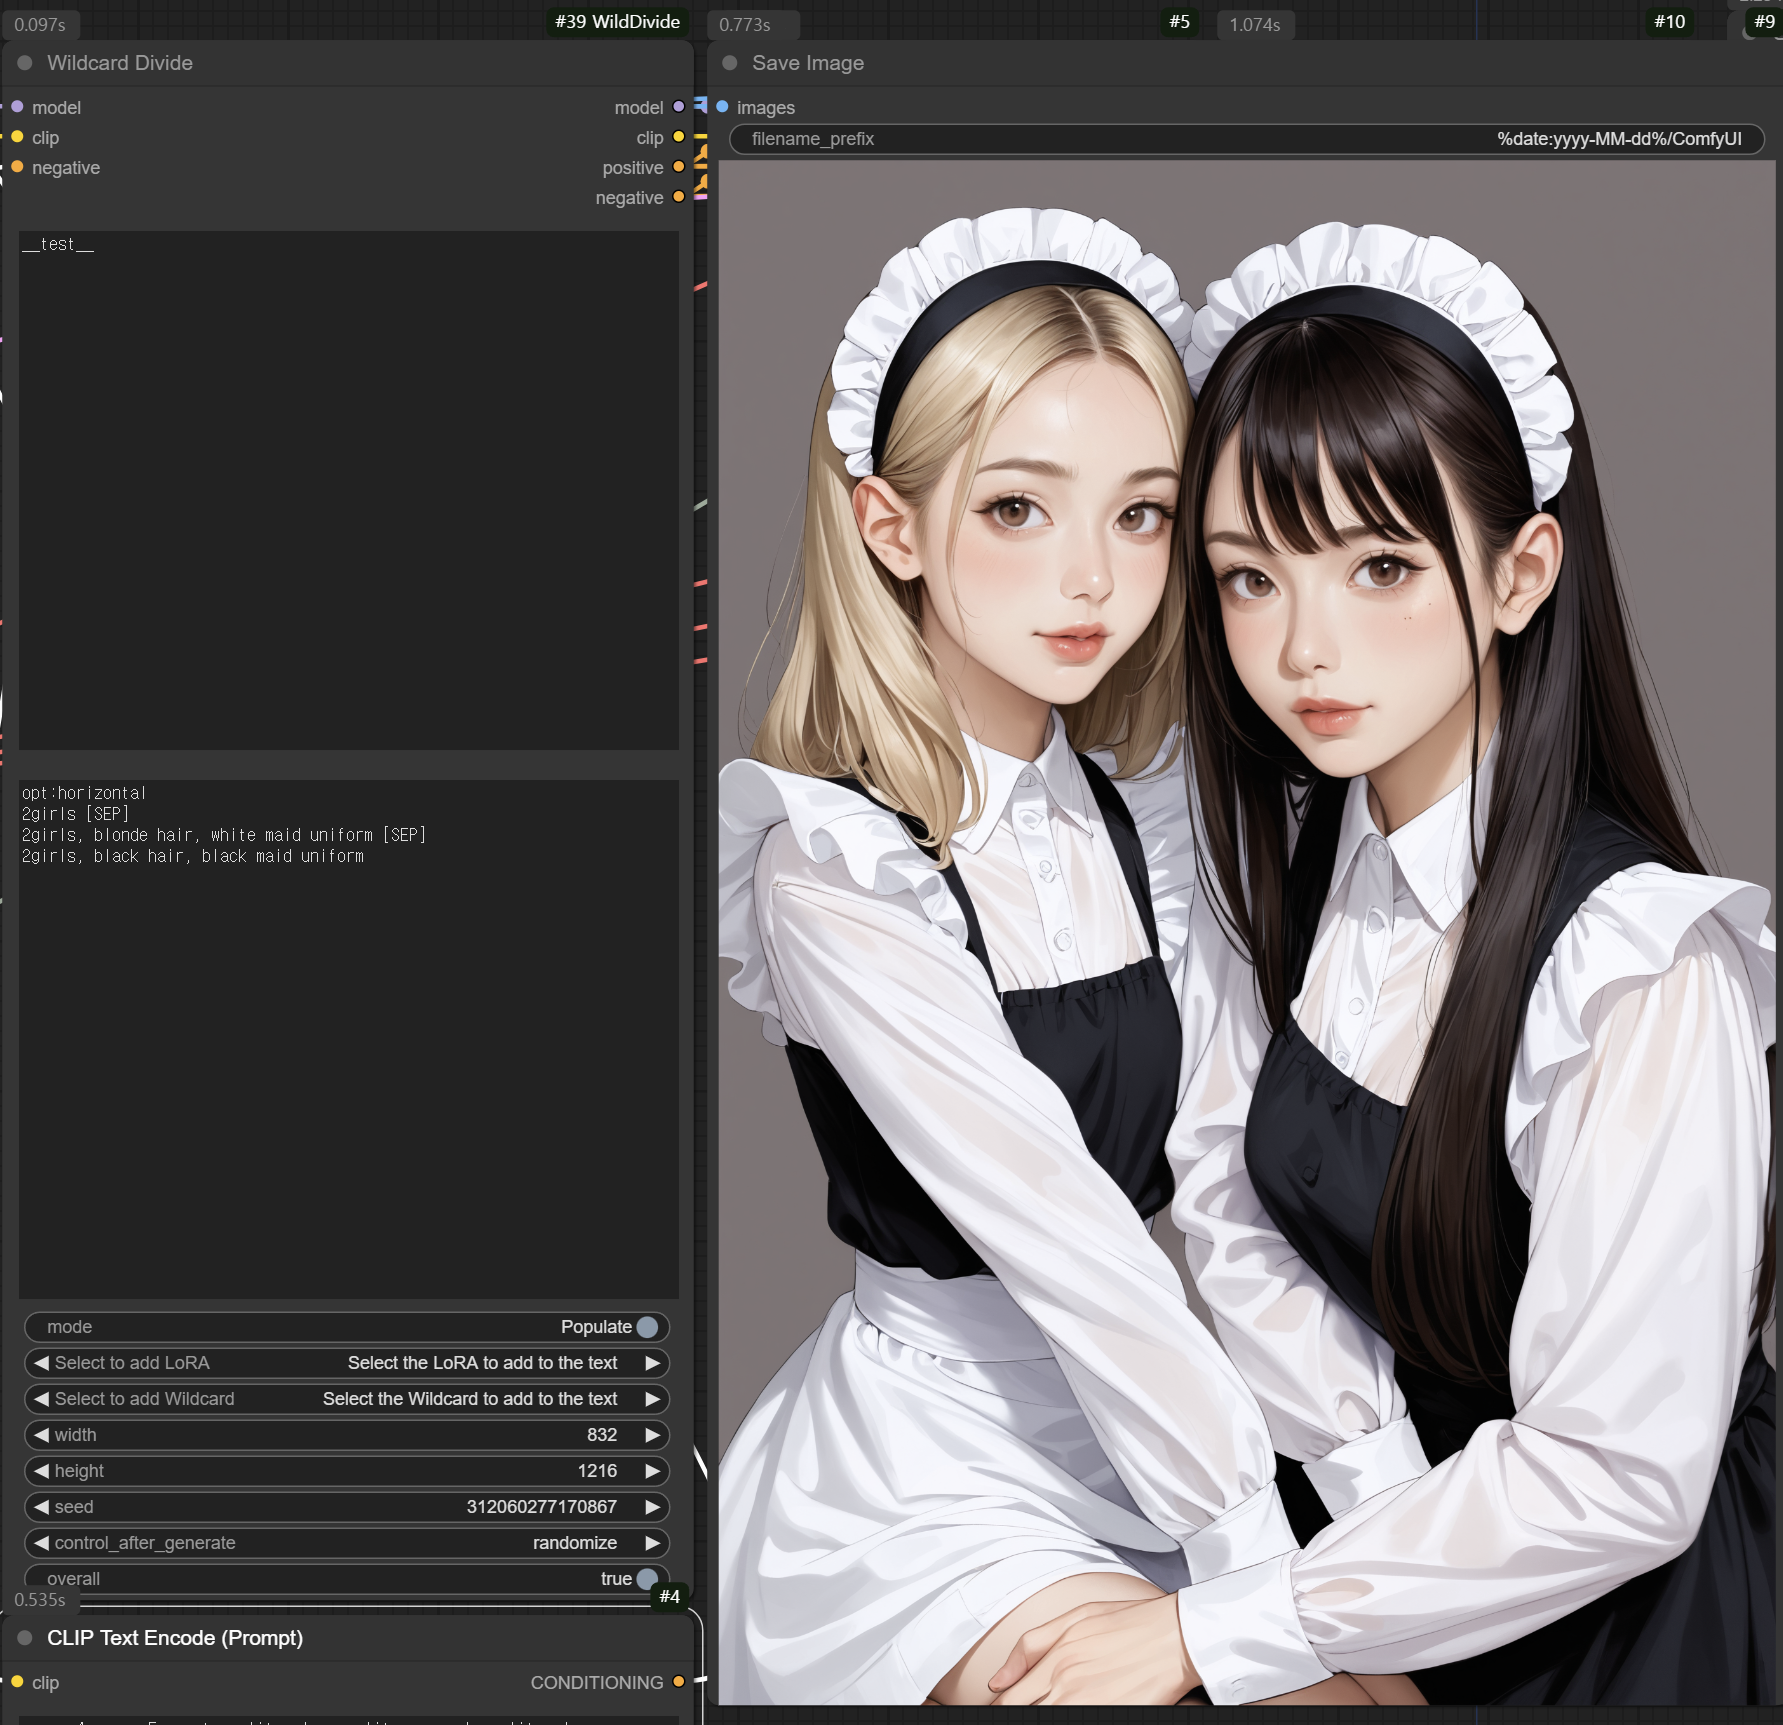
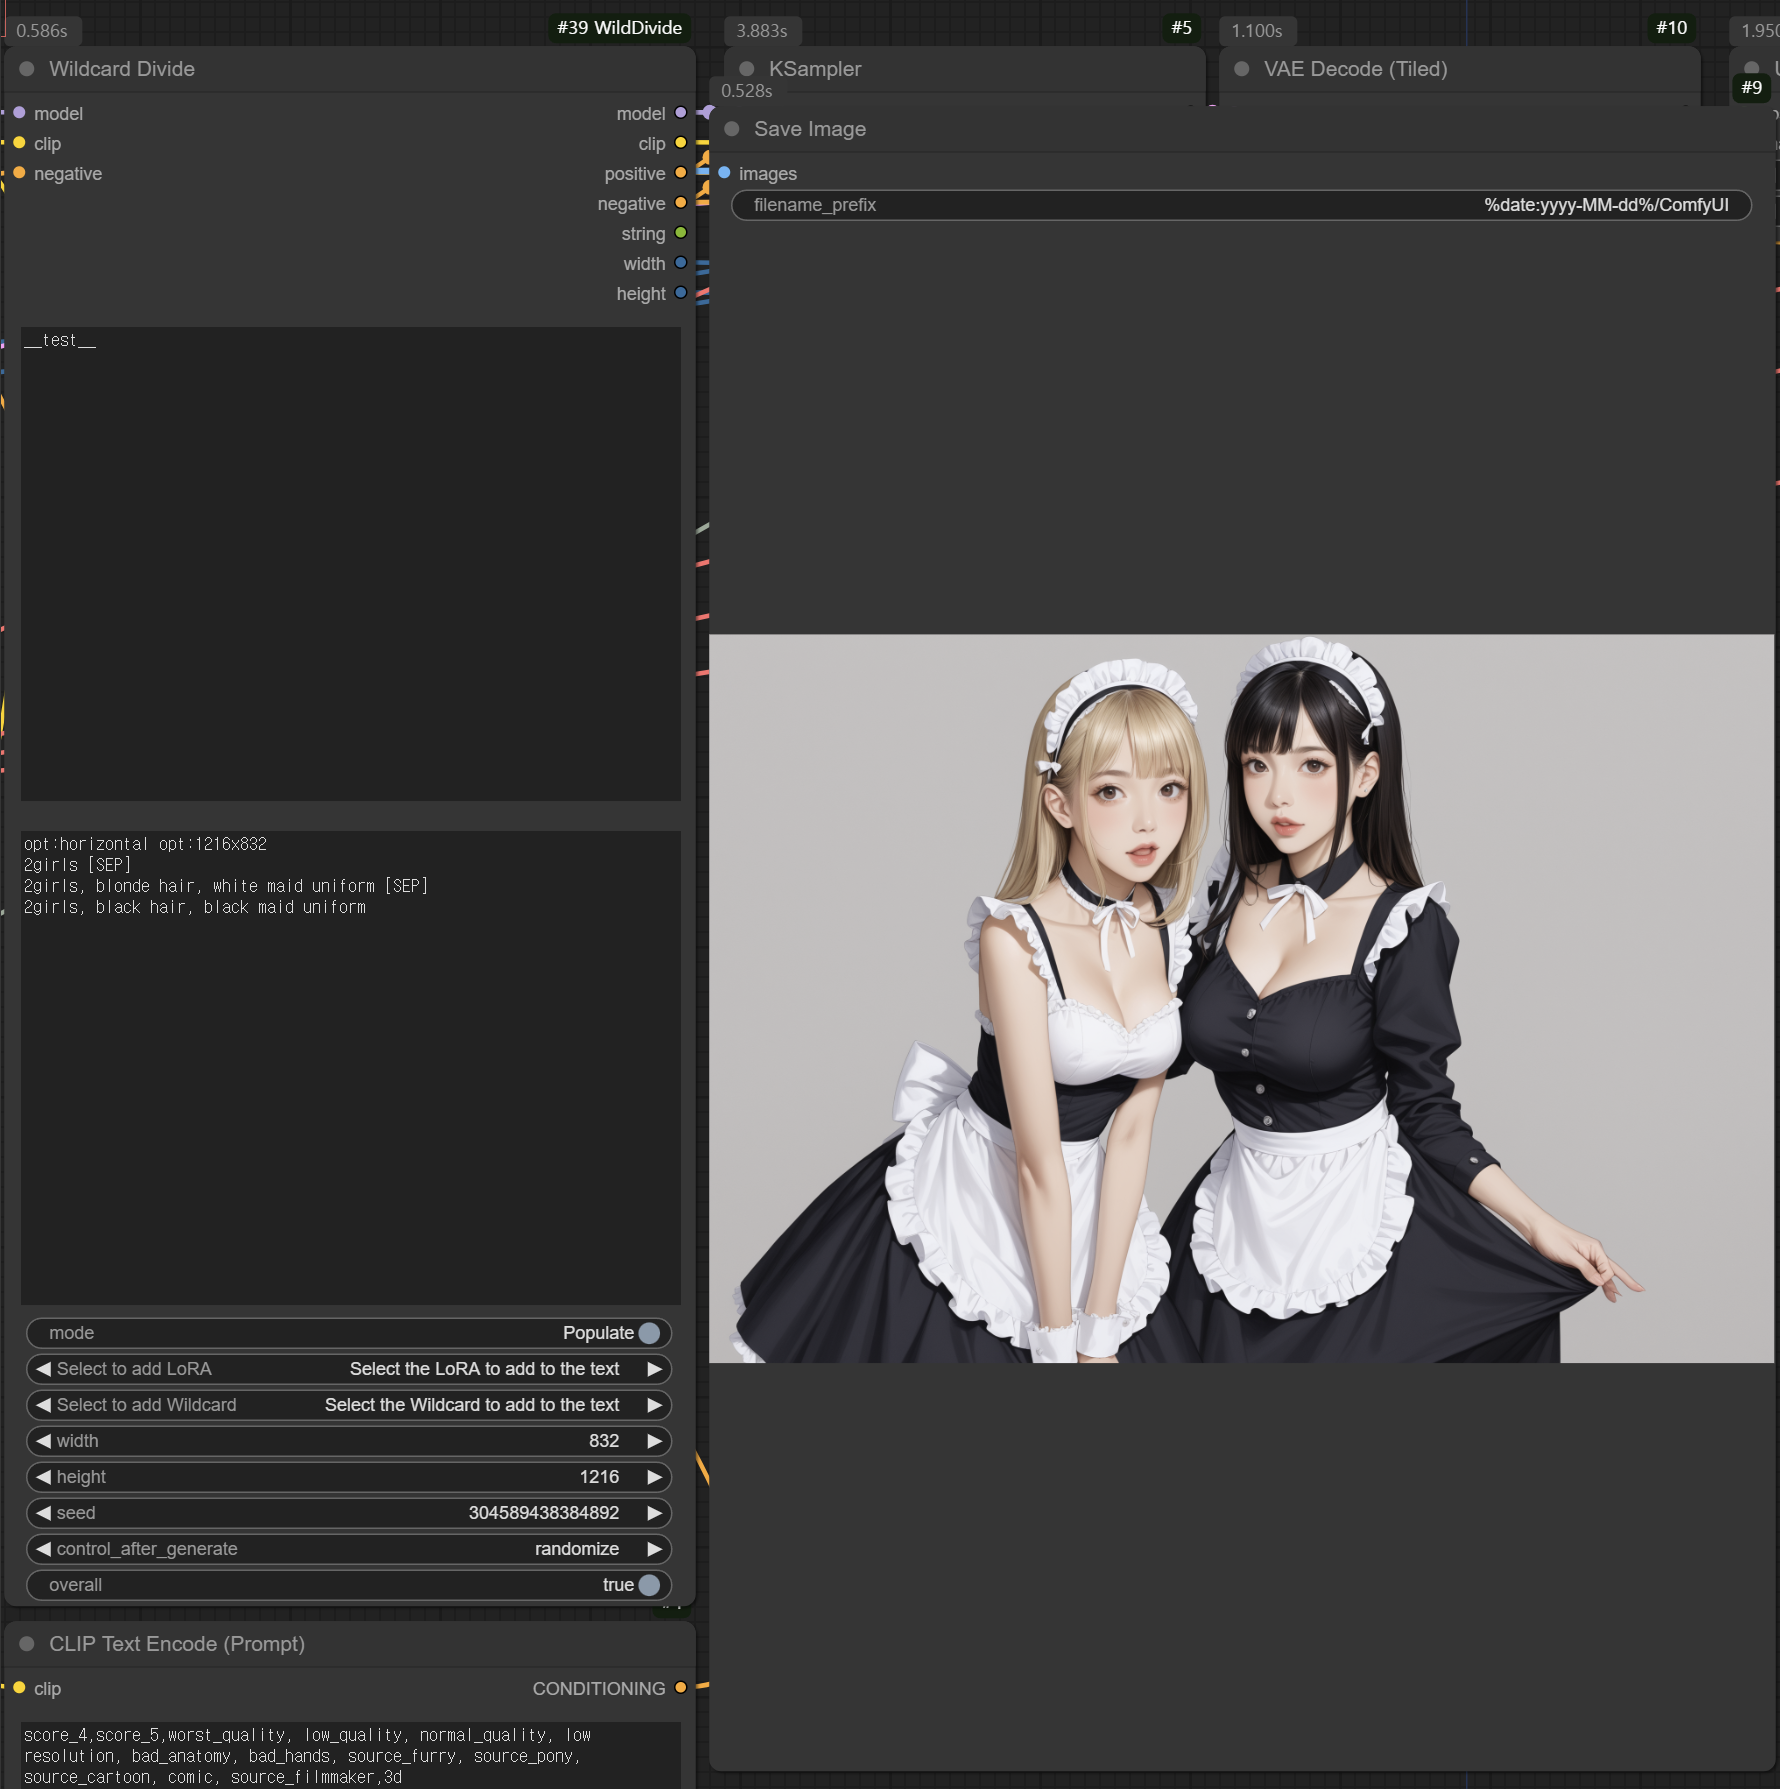
Update README

diff --git a/README.md b/README.md
@@ -109,3 +109,17 @@ This syntax allows for precise control over image segmentation:
    - `sky` is applied across the entire image
    - `blue sky` affects the top half
    - `red sky` influences the bottom half
+
+### Image Size Specification
+
+You can define the dimensions of the output image using the `opt:`_width_`x`_height_ syntax. This feature allows for dynamic image size adjustment based on the selected option.
+
+```yaml
+scene:
+  - opt:1216x832 2girls [SEP] blonde hair [SEP] black hair
+  - opt:832x1216 sky [SEP] blue sky [SEP] red sky
+```
+
+In this example, selecting the second option would result in an image with dimensions of 832x1216 pixels.
+
+To implement this functionality, ensure that you connect the width and height outputs to the empty latent image node in your workflow. This connection enables the dynamic resizing of the output based on the specified dimensions.
